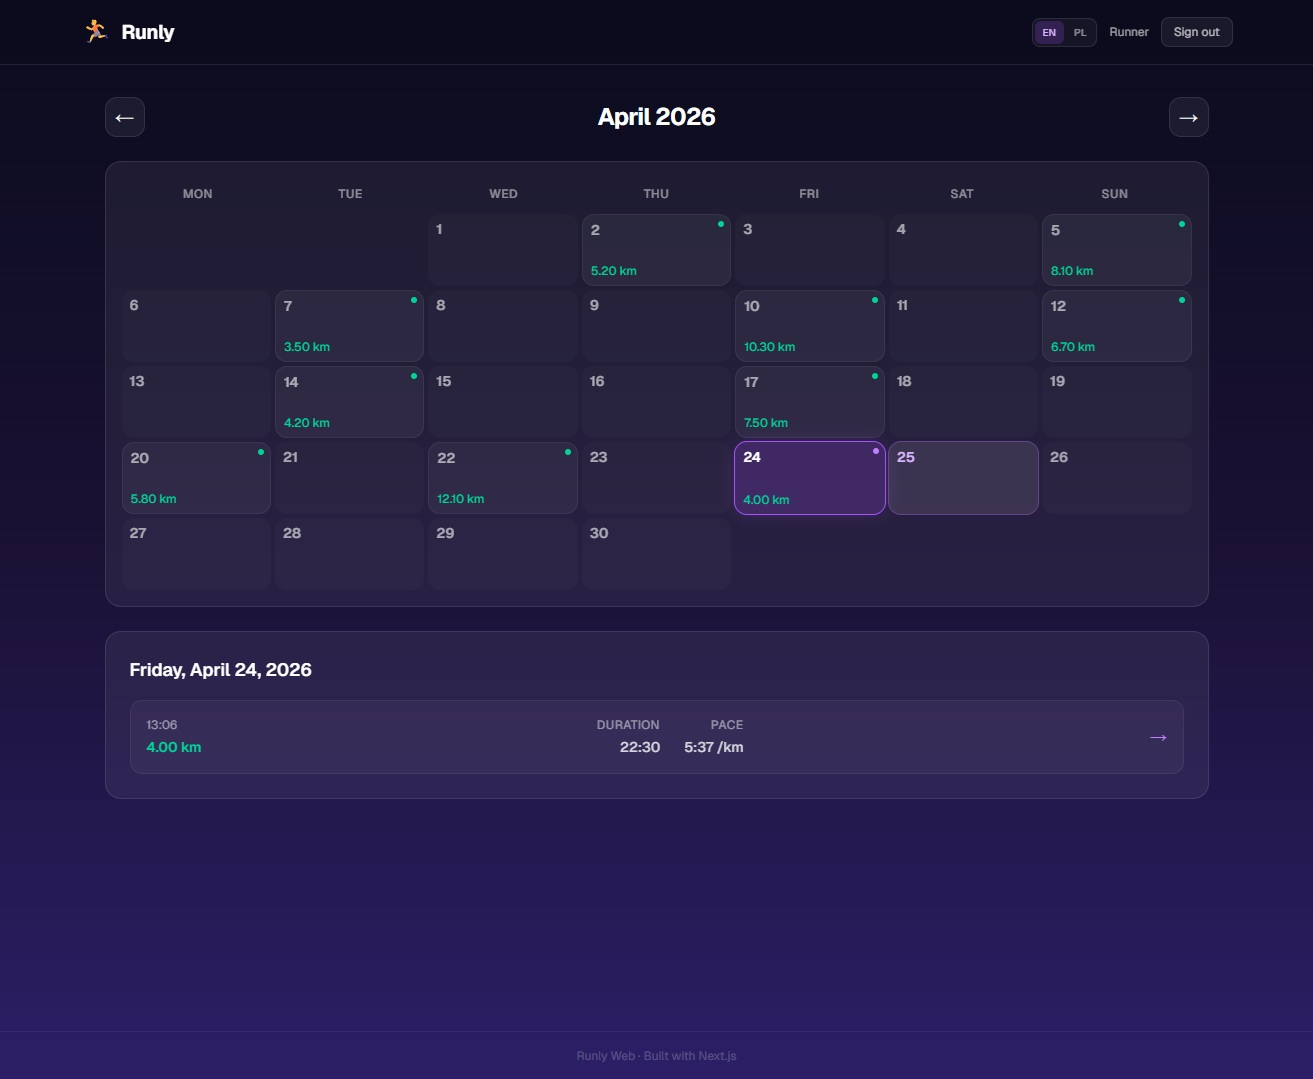
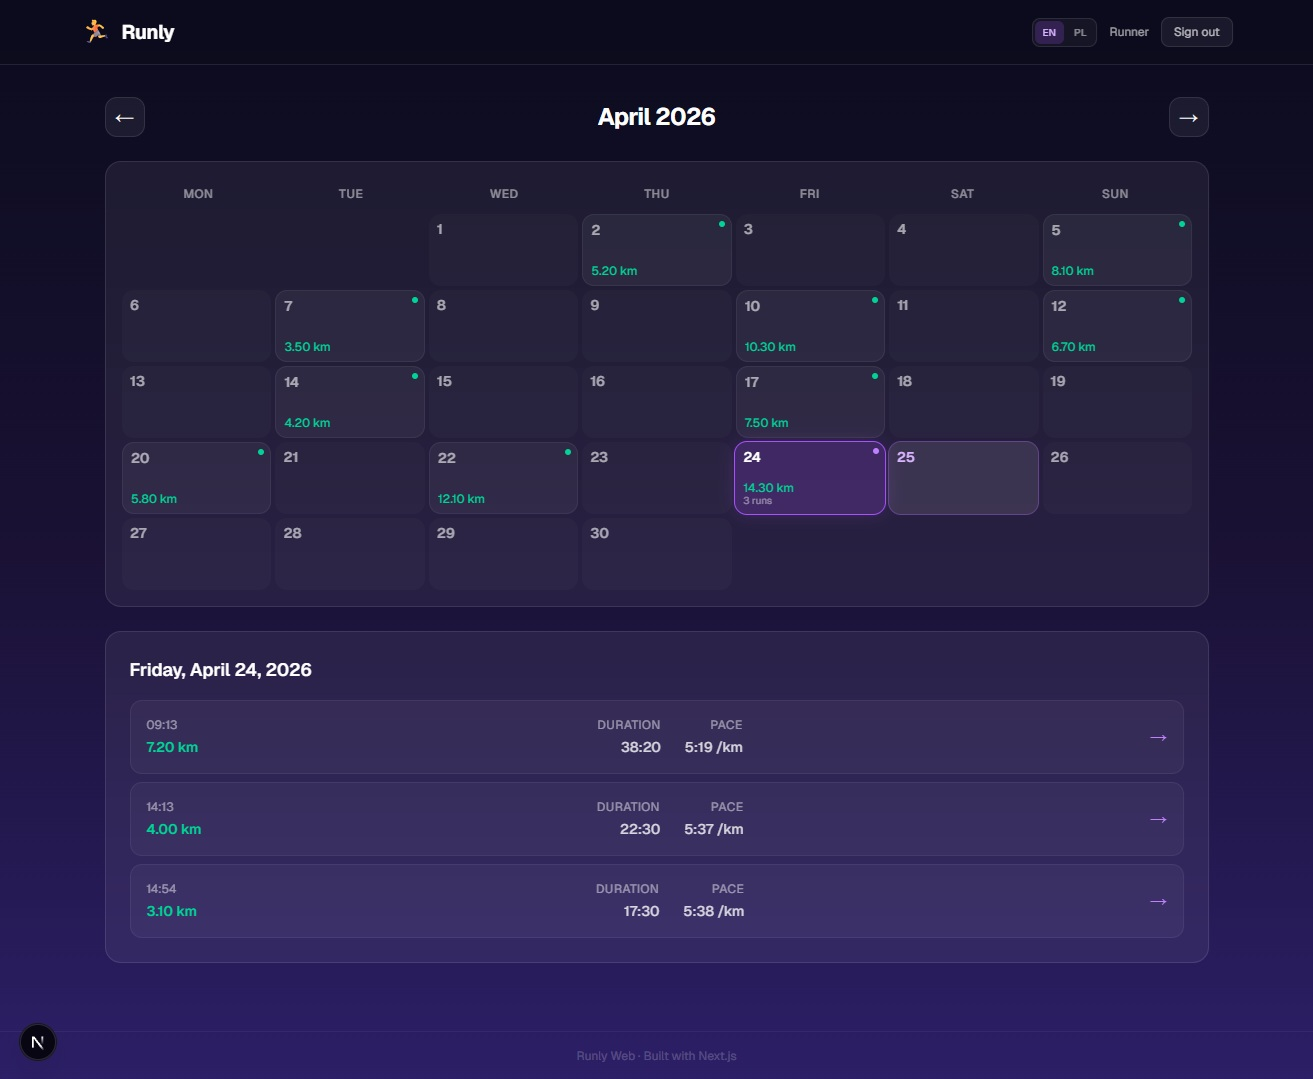
update docs

diff --git a/prisma/seed.ts b/prisma/seed.ts
@@ -106,6 +106,8 @@ async function main() {
     { date: '2026-04-20', distance: 5800, duration: 1900, hasIntervals: false },
     { date: '2026-04-22', distance: 12100, duration: 3900, hasIntervals: false },
     { date: '2026-04-24', distance: 4000, duration: 1350, hasIntervals: true },
+    { date: '2026-04-24', distance: 7200, duration: 2300, hasIntervals: false },
+    { date: '2026-04-24', distance: 3100, duration: 1050, hasIntervals: true },
 
     { date: '2026-03-05', distance: 6200, duration: 2000, hasIntervals: false },
     { date: '2026-03-12', distance: 9500, duration: 3100, hasIntervals: true },
